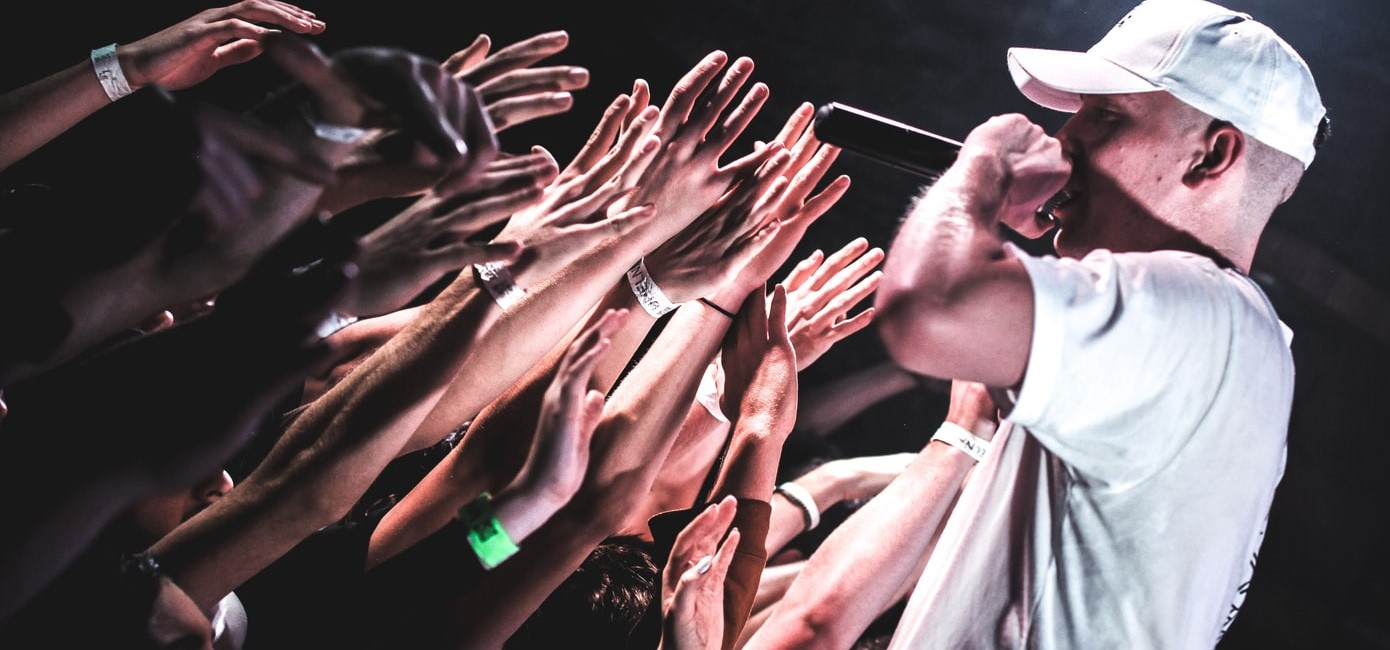
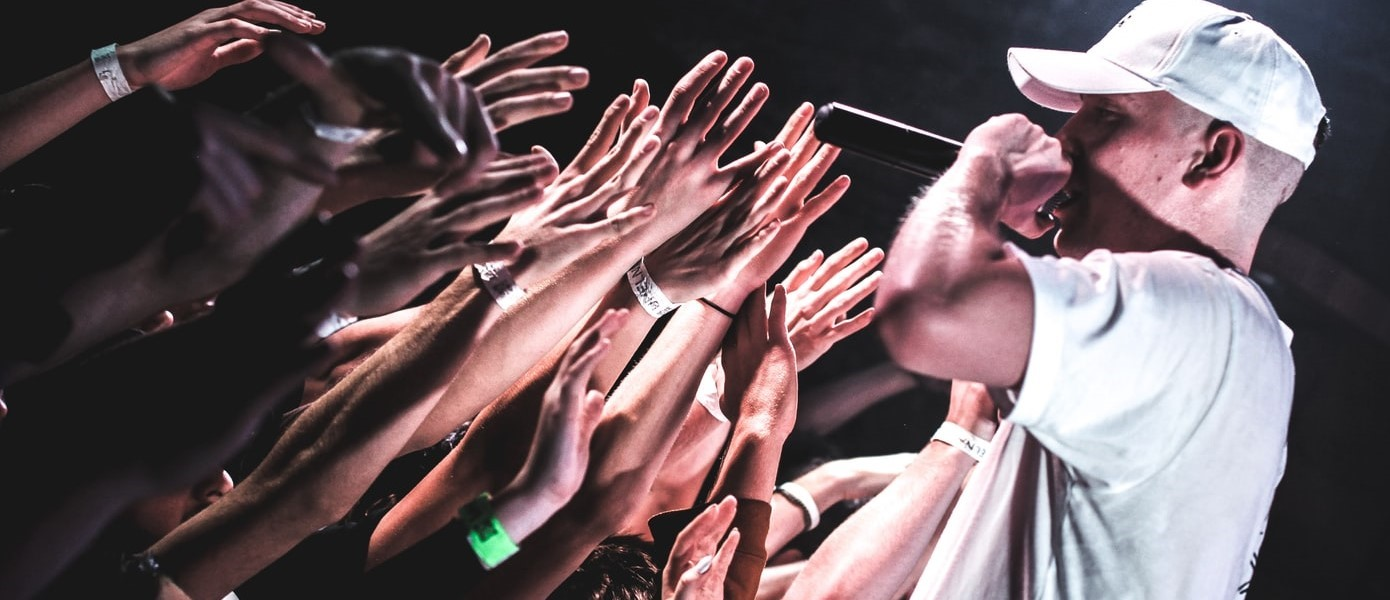
se ajusta imagen principal

diff --git a/inicio.css b/inicio.css
@@ -6,7 +6,7 @@
     width: 100%;
     height: 100vh;
     background-repeat: no-repeat;
-    background-size: cover;
+    
 }
 
 .contenedor{
